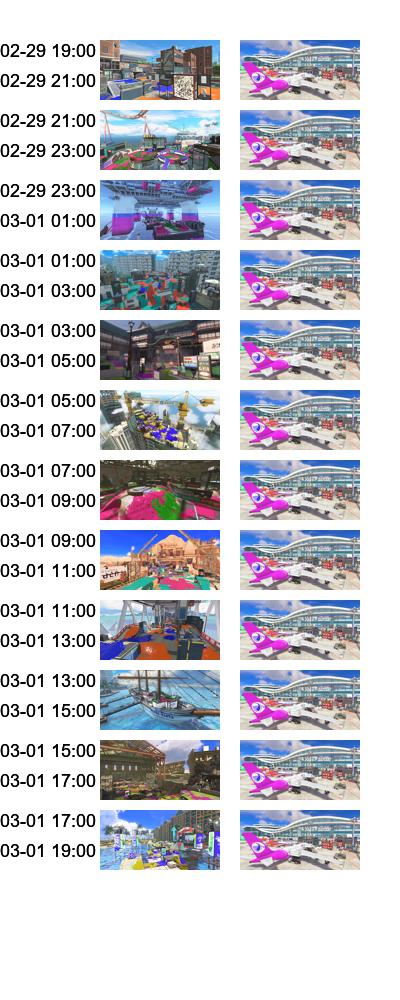
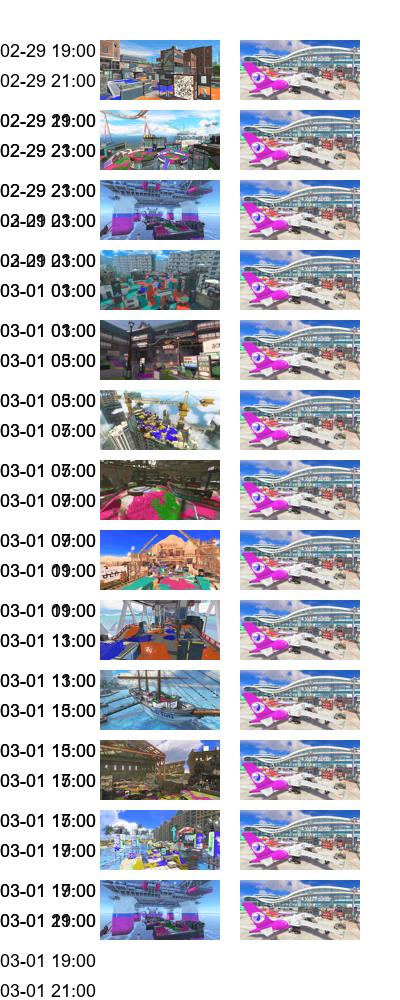
split functiontionality of splat

diff --git a/splat/renderer.py b/splat/renderer.py
@@ -1,0 +1,124 @@
+from PIL import Image, ImageDraw, ImageFont
+from io import BytesIO
+import requests
+
+
+def render_battle(li):
+    width = 400
+    height = 1000
+    i = 0
+    re = Image.new("RGB", (width, height), "white")
+    tmp  = ImageDraw.Draw(re)
+    x = 100
+    y = 40
+    for idx, item in enumerate(li):
+        # print(item)
+        start = item['start']
+        end = item['end']
+        name = item['name_cn']
+        url = item['img']
+        # Send a GET request to the URL
+        response = requests.get(url)
+        
+        # Check if the request was successful
+        if response.status_code == 200:
+            # Read the content of the response as bytes
+            image_bytes = BytesIO(response.content)
+            
+            # Open the image using Pillow
+            image_to_add = Image.open(image_bytes)
+            
+            # Resize image:
+            scale = 0.3
+            size = (int(scale * image_to_add.size[0]), int(scale * image_to_add.size[1]))
+            image_to_add = image_to_add.resize(size)
+
+            # Put add image
+            position = (x, y)
+            x = 340 - x
+            #x=100 is the default 
+            if x == 100:
+                y+= 70
+
+            re.paste( image_to_add,position)
+            
+            # Choose a font and size
+            font = ImageFont.truetype("arial.ttf", size=18)
+            
+            # Specify text position
+            text_position = (0, y)
+            end_position = (0,y+30)
+        
+            # Add text to the image
+            tmp.text(text_position, start, fill="black", font=font)
+            tmp.text(end_position, end, fill="black", font=font)
+
+
+            
+        else:
+            # If the request failed, print an error message
+            print(f"Failed to retrieve image from URL: {url}")
+            return None
+        i = 1 - i
+    return re
+
+def render_coop(li):
+    width = 400
+    height = 1000
+    i = 0
+    re = Image.new("RGB", (width, height), "white")
+    tmp  = ImageDraw.Draw(re)
+    x = 0
+    y = 340
+    for idx, item in enumerate(li):
+        start = item['start']
+        end = item['end']
+        boss = item['name_cn']
+        url = item['img']
+        weapons = item['weapons']
+        # Send a GET request to the URL
+        response = requests.get(url)
+        
+        # Check if the request was successful
+        if response.status_code == 200:
+            # Read the content of the response as bytes
+            image_bytes = BytesIO(response.content)
+
+            # Open the image using Pillow
+            image_to_add = Image.open(image_bytes)
+            # print(idx)
+            if idx == 0:
+                # Resize image:
+                scale = 1
+                size = (int(scale * image_to_add.size[0]), int(scale * image_to_add.size[1]))
+                image_to_add = image_to_add.resize(size)
+                
+                position = (0, 50)
+                # image_to_add.show()
+                re.paste(image_to_add,position)
+                # Choose a font and size
+                font = ImageFont.truetype("arial.ttf", size=20)
+                
+                # Specify text position
+                text_position = (0, 10)
+                txt = start + " - " + end + "Boss: "+ boss
+
+                # Add text to the image
+                tmp.text(text_position, start + " - " + end + " Boss: "+ boss, fill="black", font=font)
+                for wp in weapons:
+                    response = requests.get(url)
+
+            else:
+                # Resize image:
+                scale = 0.5
+                size = (int(scale * image_to_add.size[0]), int(scale * image_to_add.size[1]))
+                image_to_add = image_to_add.resize(size)
+
+                position=(x,y)
+                re.paste(image_to_add,position)
+                y += 160
+
+
+            # re.show()
+            # print(item)
+    return re

diff --git a/splat/crawler.py b/splat/crawler.py
@@ -46,78 +46,6 @@ def timezone_conversion(time_str):
     re = tokyo_datetime.astimezone(re)
     return re.strftime('%m-%d %H:%M')
 
-def render_battle(li):
-    width = 400
-    height = 600
-    i = 0
-    re = Image.new("RGB", (400, 1000), "white")
-    tmp  = ImageDraw.Draw(re)
-    x = 100
-    y = 40
-    for idx, item in enumerate(li):
-        # print(item)
-        start = item['start']
-        end = item['end']
-        name = item['name_cn']
-        url = item['img']
-        # Send a GET request to the URL
-        response = requests.get(url)
-        
-        # Check if the request was successful
-        if response.status_code == 200:
-            # Read the content of the response as bytes
-            image_bytes = BytesIO(response.content)
-            
-            # Open the image using Pillow
-            image_to_add = Image.open(image_bytes)
-            
-            # Resize image:
-
-            scale = 0.3
-            size = (int(scale * image_to_add.size[0]), int(scale * image_to_add.size[1]))
-
-            image_to_add = image_to_add.resize(size)
-            
-            # Initialize the drawing context
-            # draw = ImageDraw.Draw(re)
-            
-            # Choose a font and size
-            font = ImageFont.truetype("arial.ttf", size=18)
-            
-            # Specify text position
-            text_position = (0, y)
-            end_position = (0,y+30)
-        
-            # Add text to the image
-            tmp.text(text_position, start, fill="black", font=font)
-            tmp.text(end_position, end, fill="black", font=font)
-
-            position = (x, y)
-            x = 340 - x
-            #x=100 is the default 
-            if x == 100:
-                y+= 70
-
-            re.paste( image_to_add,position)
-            
-        else:
-            # If the request failed, print an error message
-            print(f"Failed to retrieve image from URL: {url}")
-            return None
-        i = 1 - i
-    return re
-    
-def render_coop(li):
-    width = 400
-    height = 600
-    i = 0
-    re = Image.new("RGB", (400, 1000), "white")
-    for idx, item in enumerate(li):
-        # if idx == 0:
-            
-        print(item)
-    return re
-
 def parse_regular():
     stages = []
 
@@ -217,22 +145,3 @@ def parse_coop():
         stages.append(tmp)
     return stages
         
-def get_regular():
-    return render_battle(parse_regular())
-
-def get_challenge():
-    return render_battle(parse_challenge())
-
-def get_open():
-    return render_battle(parse_open())
-
-def get_coop():
-    return render_coop(parse_coop())
-
-def get_x():
-    return render_battle(parse_x())
-# parse_coop()
-# print(parse_])
-# get_challenge().show()
-# parse_x()
-get_coop()

diff --git a/splat/main.py b/splat/main.py
@@ -1,0 +1,24 @@
+from crawler import *
+from renderer import *
+
+def get_regular():
+    li = parse_regular()
+    return render_battle(li)
+
+def get_challenge():
+    li = parse_challenge()
+    return render_battle(li)
+
+def get_open():
+    li = parse_open()
+    return render_battle(li)
+
+def get_coop():
+    li = parse_coop()
+    return render_coop(li)
+
+def get_x():
+    li = parse_x()
+    return render_battle(li)
+
+get_coop().show()
